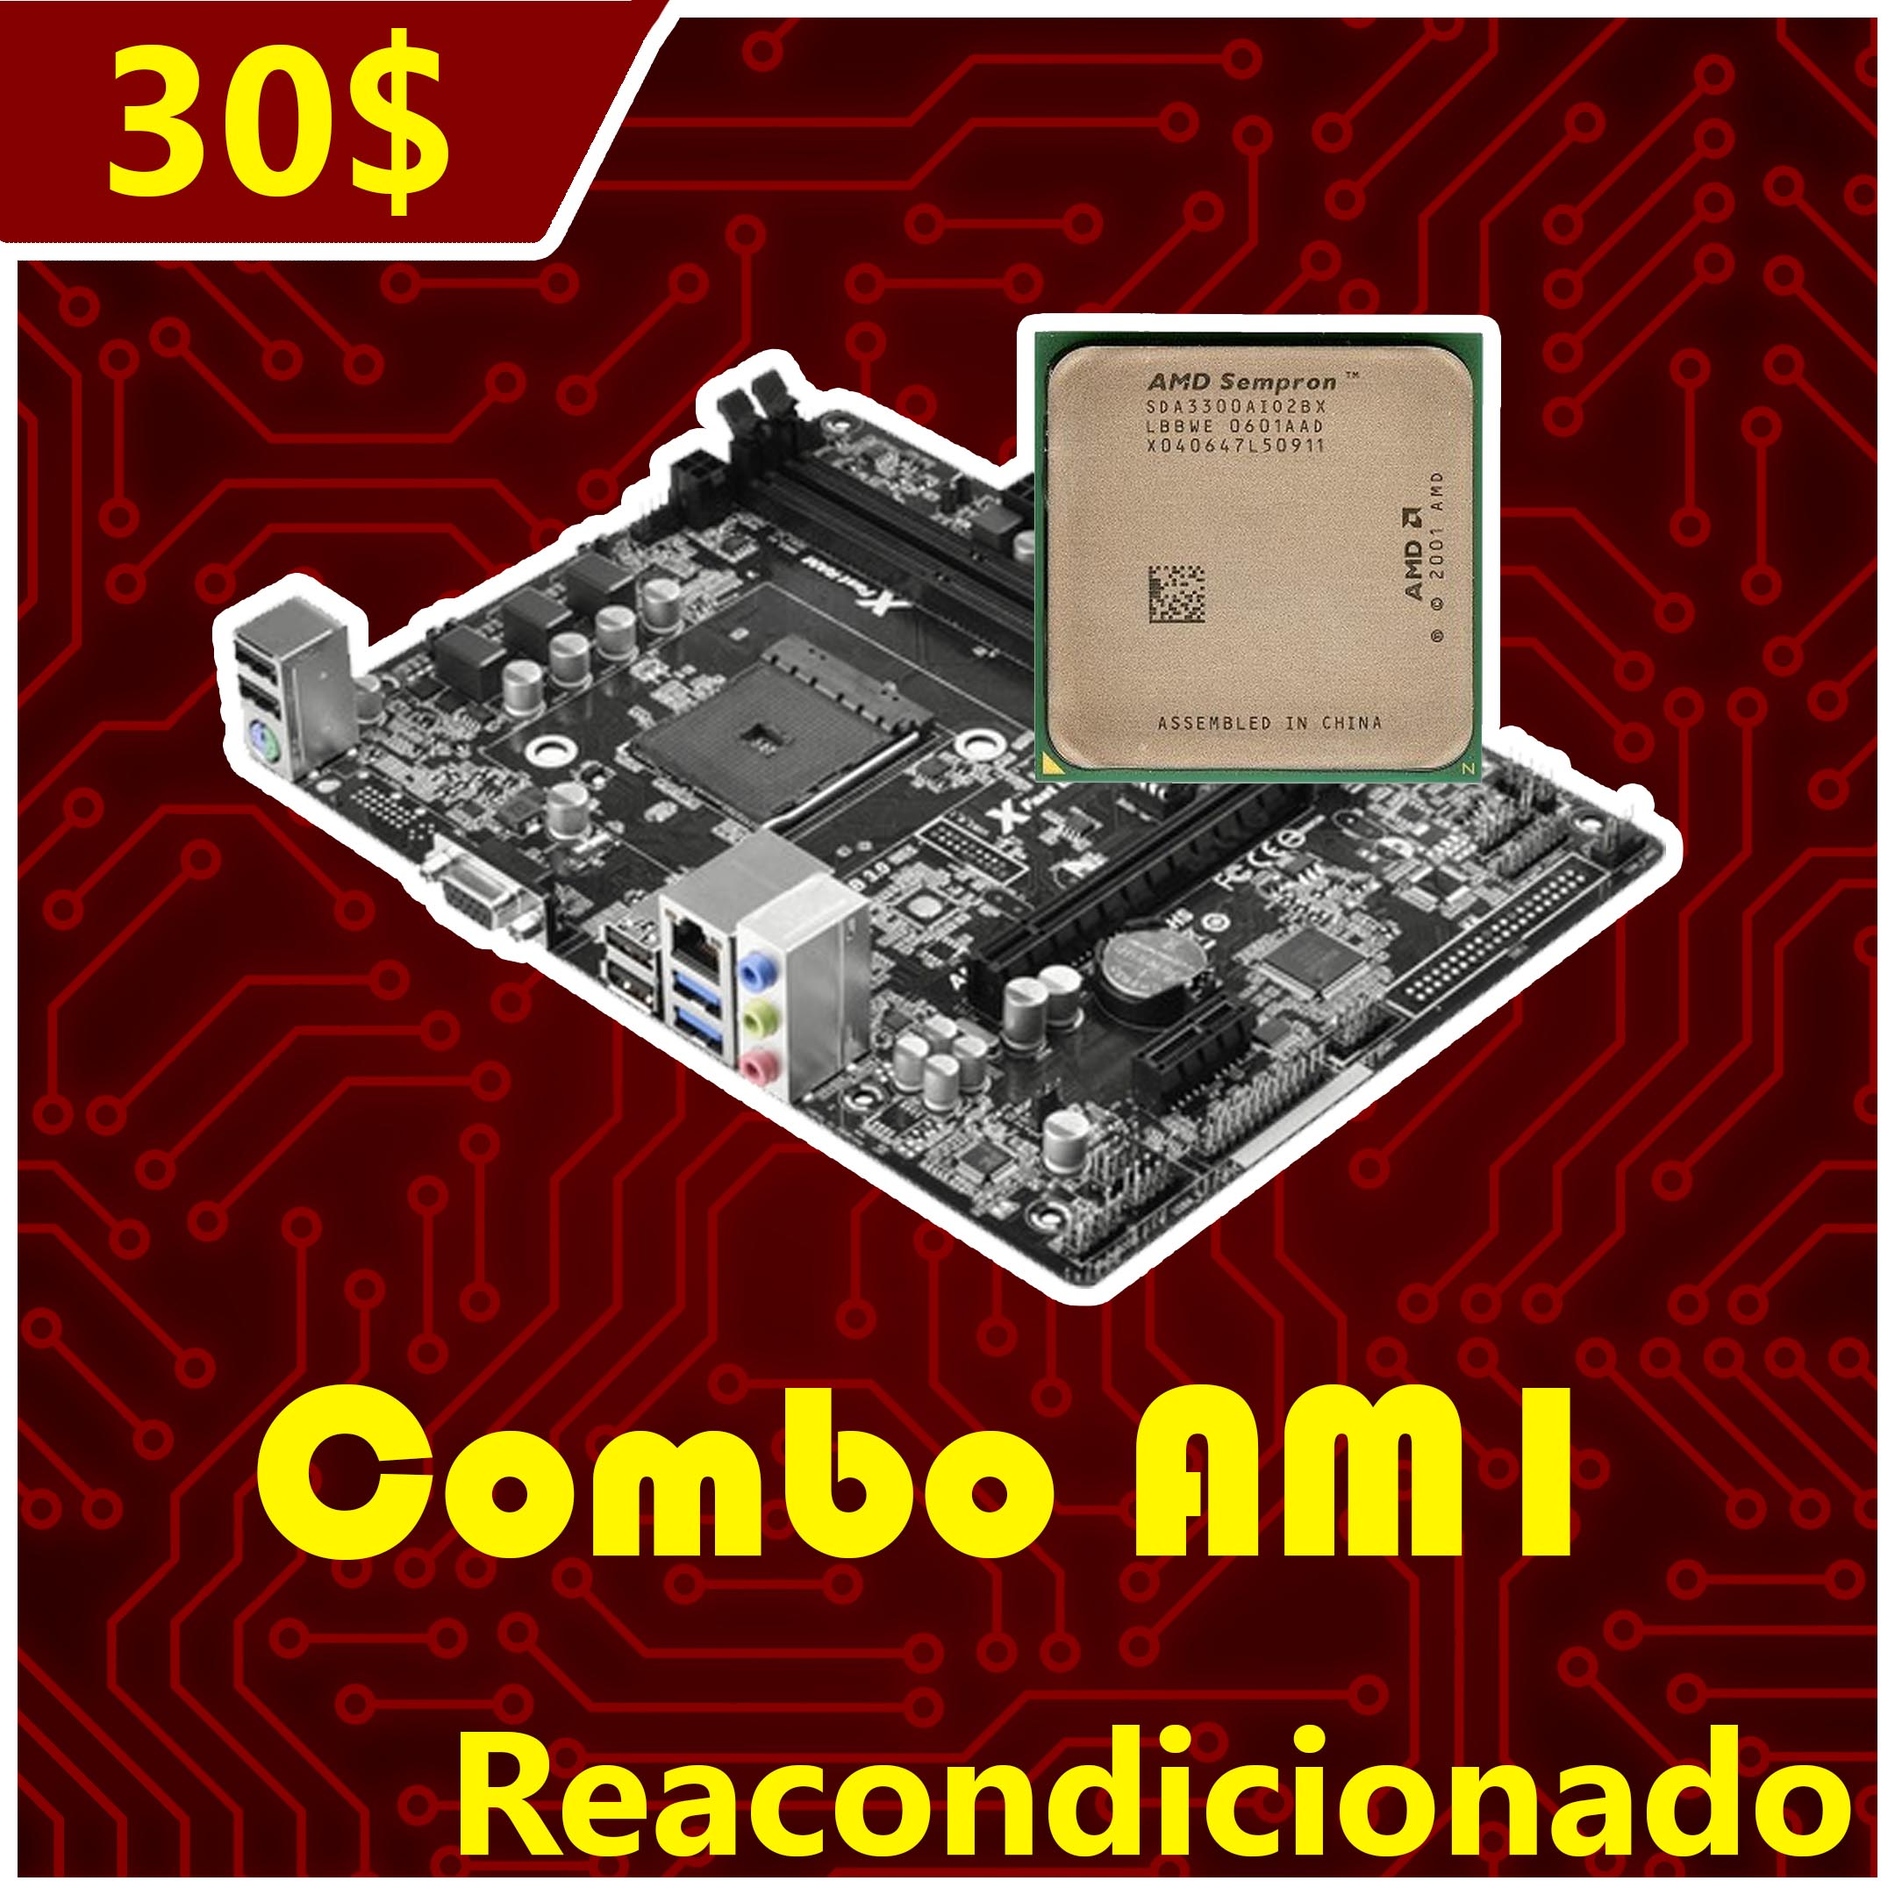
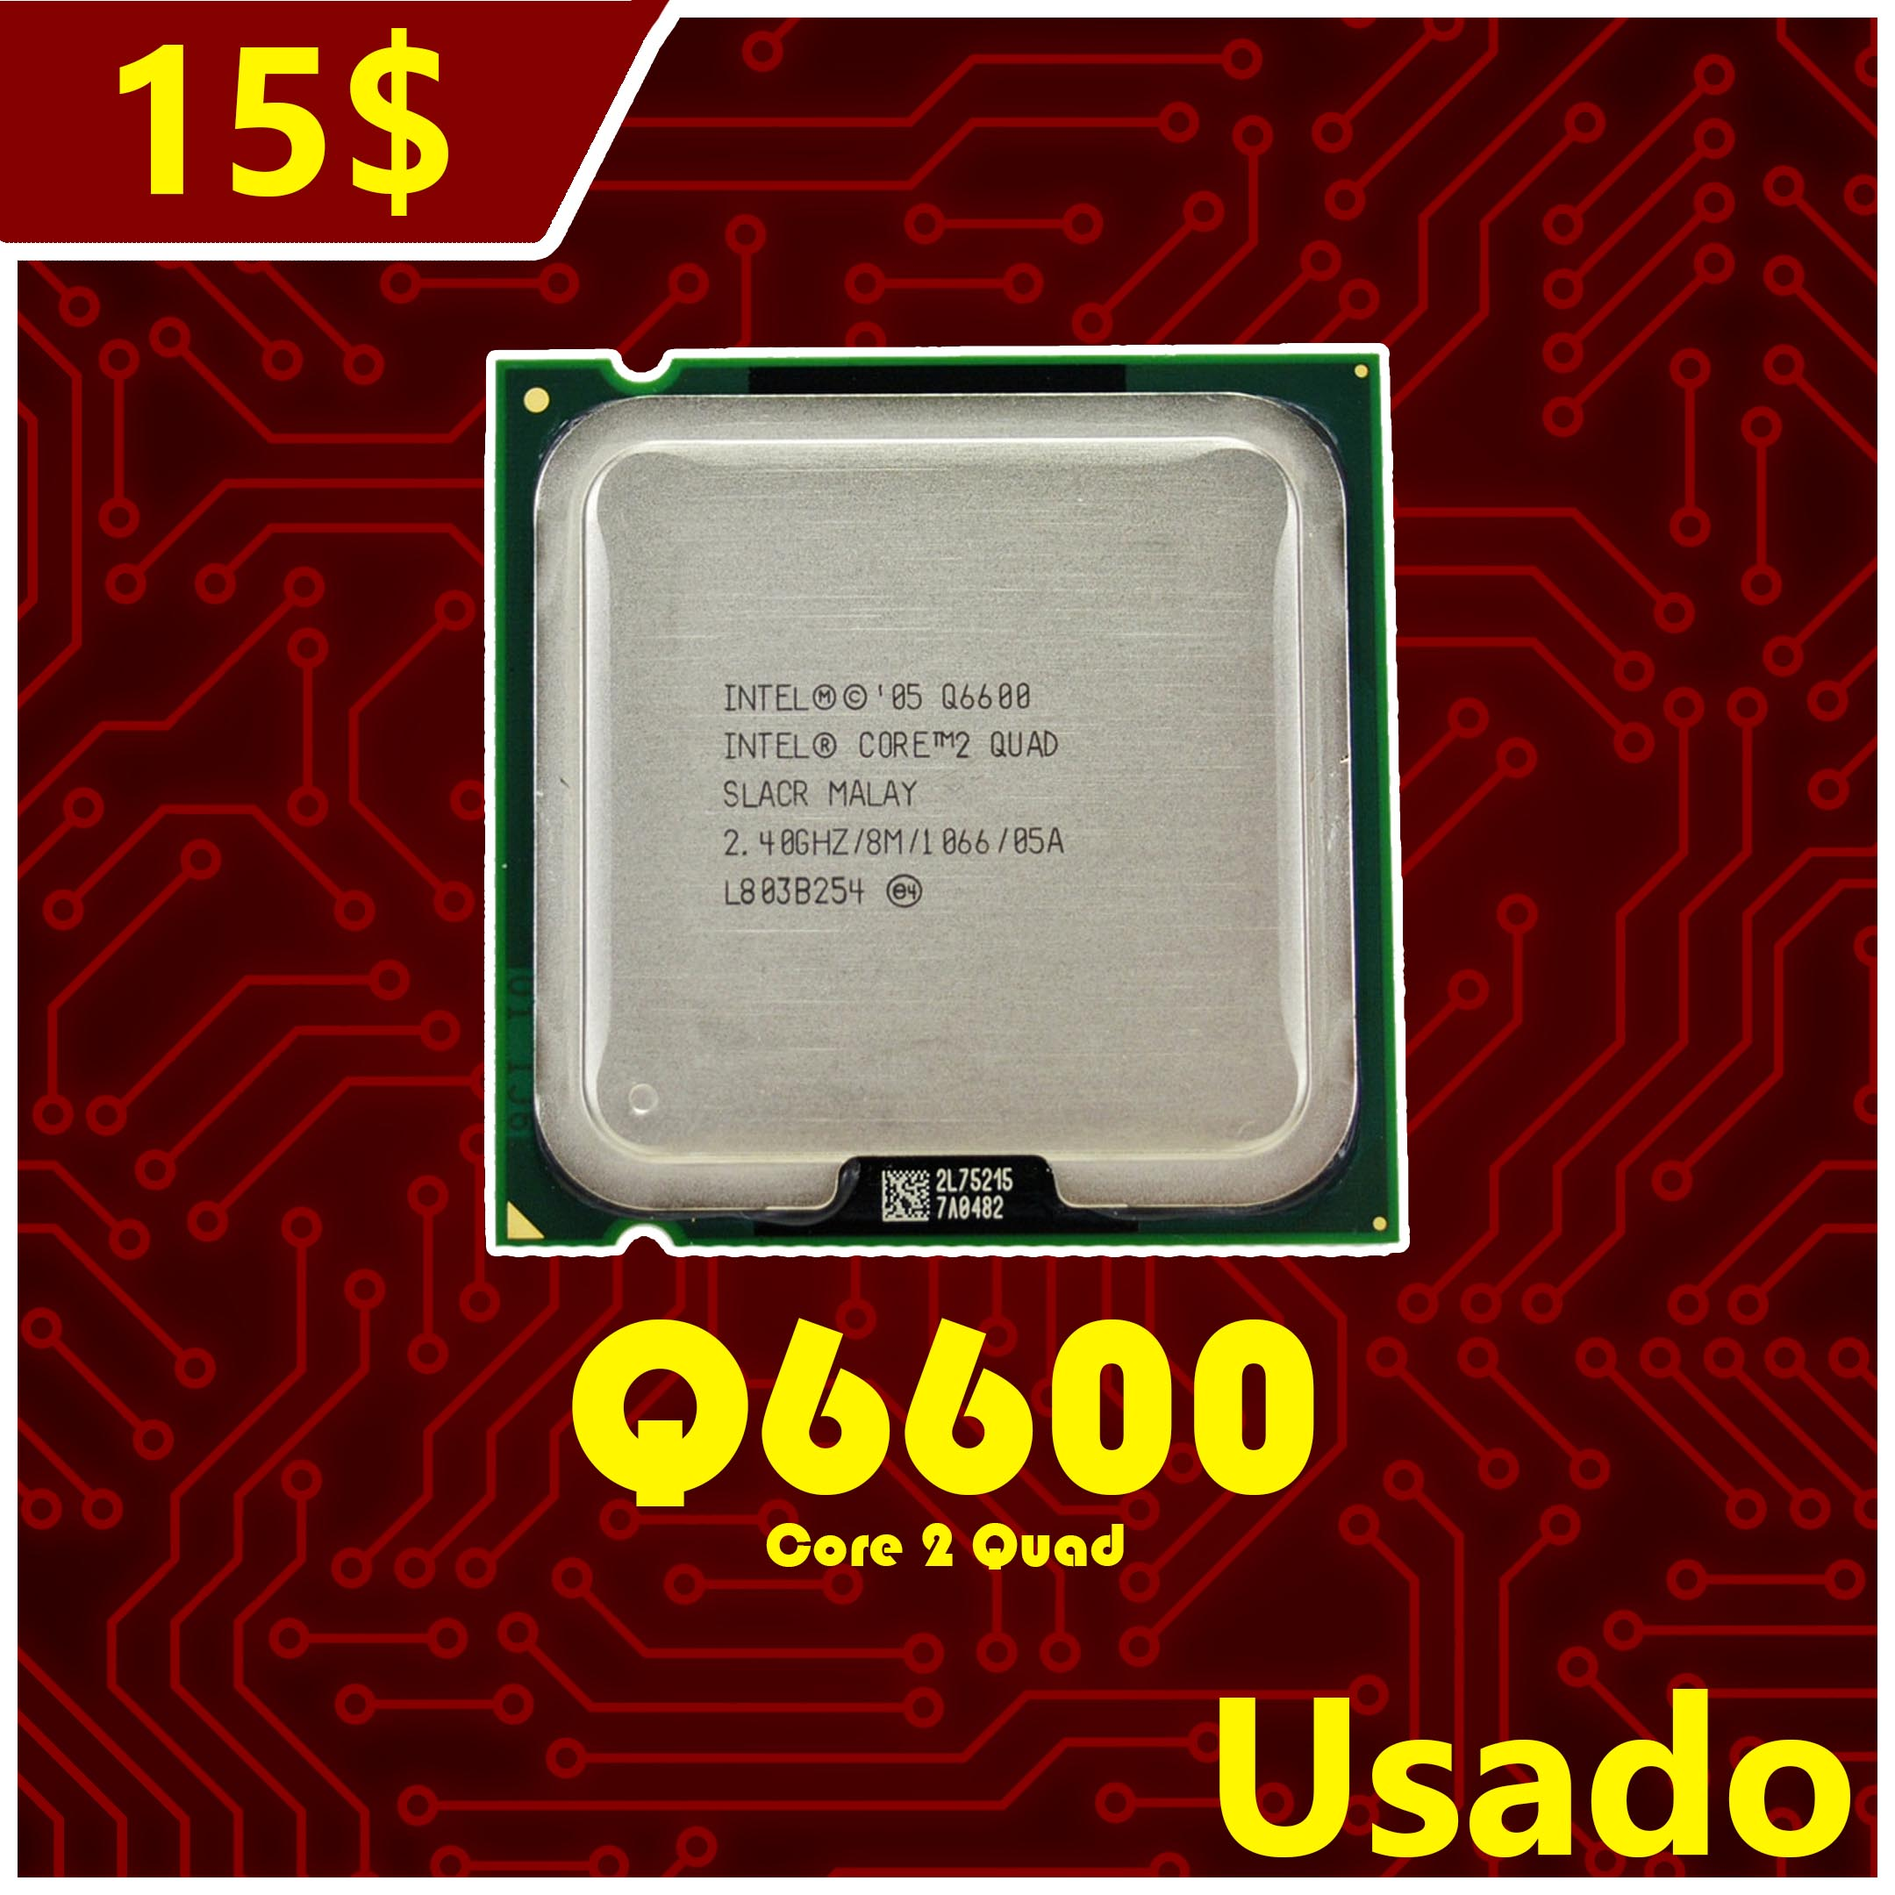
Add files via upload

diff --git a/index.html b/index.html
@@ -64,7 +64,7 @@
           <li><a href="#about">Sobre nosotros</a></li>
           <li><a href="tienda.html">Productos</a></li>
           <li><a href="servicios.html">Servicios</a></li>
-          <li><a href="#team">Equipo</a></li>
+          <li><a href="cursos.html">Cursos</a></li>
           <li><a href="#contact">Contacto</a></li>
         </ul>
       </nav>
@@ -136,15 +136,15 @@
           <p class="service-description">Información de nuestras reparaciones, métodos, procedimientos, garantías y más...</p>
         </div>
         <div class="col-md-4 service-item">
+          <div class="service-icon"><i class="fa fa-comments"></i></div>
+          <h4 class="service-title"><a href="cursos.html">Cursos</a></h4>
+          <p class="service-description">Información e inscripción a capacitaciones</p>
+        </div>
+        <div class="col-md-4 service-item">
           <div class="service-icon"><i class="fa fa-calculator"></i></div>
           <h4 class="service-title"><a>Armados de PCs</a></h4>
           <p class="service-description">Pronto...</p>
-        </div>
-        <div class="col-md-4 service-item">
-          <div class="service-icon"><i class="fa fa-comments"></i></div>
-          <h4 class="service-title"><a>Cursos</a></h4>
-          <p class="service-description">Pronto...</p>
-        </div>
+        </div>       
         <div class="col-md-4 service-item">
           <div class="service-icon"><i class="fa fa-microchip"></i></div>
           <h4 class="service-title"><a>Repuestos electrónicos</a></h4>
@@ -153,75 +153,7 @@
       </div>
     </div>
   </section>
-  <!--==========================
-  PRODUCTOS
-  ============================
-  <section id="portfolio">
-    <div class="container wow fadeInUp">
-      <div class="row">
-        <div class="col-md-12">
-          <h3 class="section-title">Productos</h3>
-          <div class="section-title-divider"></div>
-          <p class="section-description">Estos son nuestros productos disponibles:</p>
-        </div>
-      </div>
 
-      <div class="row">
-        <div class="col-md-3">
-          <a class="portfolio-item" style="background-image: url(img/portfolio-1.jpg);" href="https://wa.me/p/4942876472471732/584245022292">
-            <div class="details">
-              <h4>PC Gamer Low Cost (300$)</h4>
-              <span>Xeon E5450 @3.1GHz</span>
-              <span>Radeon HD 7470 1GB GDDR3</span>
-              <span>8GB RAM DDR3 1333MHz</span>
-              <span>120GB SSD + 500GB HDD</span>
-              <span>(Incluye Teclado, Ratón y Wifi)</span>
-            </div>
-          </a>
-        </div>
-        
-        <div class="col-md-3">
-          <a class="portfolio-item" style="background-image: url(img/portfolio-2.jpg);" href="https://wa.me/p/5246959668650180/584245022292">
-            <div class="details">
-              <h4>AMD RX 560 (250$)</h4>
-              <span>Marca XFX</span>
-              <span>4GB GDDR5</span>
-              <span>Alimentacion PCI 6 Pines</span>
-            </div>
-          </a>
-        </div>
-        
-        <div class="col-md-3">
-          <a class="portfolio-item" style="background-image: url(img/portfolio-3.jpg);" href="https://wa.me/p/5335270289903517/584245022292">
-            <div class="details">
-              <h4>Memoria RAM DDR3 4GB (20$)</h4>
-              <span>DDR3 DIMM</span>
-              <span>Capacidad de 4GB</span>
-              <span>1333MHz</span>
-            </div>
-          </a>
-        </div>
-
-        <div class="col-md-3">
-          <a class="portfolio-item" style="background-image: url(img/portfolio-4.jpg);" href="">
-            <div class="details">
-              <h4>Memoria RAM DDR3 4GB (22$)</h4>
-              <span>DDR3 SODIMM</span>
-              <span>Capacidad de 4GB</span>
-              <span>1333MHz</span>
-            </div>
-          </a>
-        </div>
-      -->
-  <!--==========================
-  Testimonials Section
-  ============================-->
-  
-  
-  
-  <!--==========================
-  Team Section
-  ============================-->
   <section id="team">
     <div class="container wow fadeInUp">
       <div class="row">
@@ -340,11 +272,7 @@
       </div>
     </div>
   </footer>
-  <!-- #footer -->
-
   <a href="#" class="back-to-top"><i class="fa fa-chevron-up"></i></a>
-
-  <!-- Required JavaScript Libraries -->
   <script src="lib/jquery/jquery.min.js"></script>
   <script src="lib/bootstrap/js/bootstrap.min.js"></script>
   <script src="lib/superfish/hoverIntent.js"></script>
@@ -353,13 +281,7 @@
   <script src="lib/wow/wow.min.js"></script>
   <script src="lib/stickyjs/sticky.js"></script>
   <script src="lib/easing/easing.js"></script>
-
-  <!-- Template Specisifc Custom Javascript File -->
   <script src="js/custom.js"></script>
-
   <script src="contactform/contactform.js"></script>
-
-
 </body>
-
 </html>

diff --git a/cursos.html b/cursos.html
@@ -1,0 +1,98 @@
+<!DOCTYPE html>
+<html lang="es">
+
+<head>
+  <meta charset="utf-8">
+  <title>MP: Cursos</title>
+  <link rel="shortcut icon" href="img/logoicon.png">
+  <meta content="width=device-width, initial-scale=1.0" name="viewport">
+  <meta content="" name="keywords">
+  <meta content="" name="description">
+
+  <link href="https://fonts.googleapis.com/css?family=Open+Sans:300,300i,400,400i,700,700i|Raleway:300,400,500,700,800" rel="stylesheet">
+  <link href="lib/bootstrap/css/bootstrap.min.css" rel="stylesheet">
+  <link href="lib/font-awesome/css/font-awesome.min.css" rel="stylesheet">
+  <link href="lib/animate-css/animate.min.css" rel="stylesheet">
+  <link href="css/style.css" rel="stylesheet">
+
+</head>
+
+<body>
+  <div id="preloader"></div>
+  <section id="cursos">
+    <div class="container wow fadeInUp">
+      <div class="row">
+        <div class="col-md-12">
+          <h3 class="section-title">Cursos</h3>
+          <div class="section-title-divider"></div>
+          <p class="section-description">Aqui encontrarás informacion sobre las capacitaciones en forma de cursos que tenemos disponibles:
+          </p>
+        </div>
+      </div>
+    </div>
+
+    <div class="container about-container wow fadeInUp">
+      <div class="row">
+        <div class="col-md-6 col-md-push-6 about-content">
+          <h2 class="about-title">Curso: Electrónica de Placás Lógicas (Nivel Medio-Avanzado)</h2>
+          <p class="about-text">
+            El curso consta de 4 módulos en total, a cada uno de estos se le dedican 2 clases, una teórica con una presentación explicada vía Discord (con tiempo a preguntas), y una práctica con participación conjunta y activa vía Discord. Los módulos son los siguientes:
+          </p>
+          <p class="about-text">
+            Modulo #1: Fundamentos de la Electrónica = Cómo funciona la electricidad en un circuito, que son las unidades de medida, que es un corto-circuito, componentes básicos de un circuito, etc.
+          </p>
+          <p class="about-text">
+           Modulo #2: Funcionamiento de un Computador a nivel electrónico = Partes de una placa madre y sus funciones, diagnostico de sectores, reparación de socket, RAMs, VRM (PWM, MOSFETs, etc), PCH, SuperIO o KBC, mediciones generales y BIOS.
+          </p>
+          <p class="about-text">
+            Modulo #3: Flujo y mediciones de un diagnóstico = Diagrama de flujo de una revisión, señales y voltajes importantes, esquemáticos y boardviews (como obtenerlos y leerlos), buscar continuidad e ingeniería inversa.
+          <p class="about-text">
+            Modulo #4: Procedimientos post-diagnóstico = Soldadura, valores de componentes y compatibilidad de los mismos, Reflow y Reballing, señales emuladas, uso avanzado de cautin y estación de calor, entre otros.
+          </p>
+        </div>
+
+      </div>
+      <div class="row">
+        <div class="col-md-9">
+          <div class="actions">
+            <a href="https://discord.gg/FXHpFkU2KD" class="btn-services">Inscríbete</a>
+          </div>
+        </div>
+      </div>
+    </div>
+
+  </section>
+
+  <footer id="footer">
+    <div class="container">
+      <div class="row">
+        <div class="col-md-12">
+          <div class="copyright">
+            &copy; Copyright <strong>MP Tech</strong>. All Rights Reserved
+          </div>
+          <div class="credits">
+          </div>
+        </div>
+      </div>
+    </div>
+  </footer>
+
+  <a href="#" class="back-to-top"><i class="fa fa-chevron-up"></i></a>
+
+  <script src="lib/jquery/jquery.min.js"></script>
+  <script src="lib/bootstrap/js/bootstrap.min.js"></script>
+  <script src="lib/superfish/hoverIntent.js"></script>
+  <script src="lib/superfish/superfish.min.js"></script>
+  <script src="lib/morphext/morphext.min.js"></script>
+  <script src="lib/wow/wow.min.js"></script>
+  <script src="lib/stickyjs/sticky.js"></script>
+  <script src="lib/easing/easing.js"></script>
+
+  <script src="js/custom.js"></script>
+
+  <script src="contactform/contactform.js"></script>
+
+
+</body>
+
+</html>

diff --git a/tienda.html b/tienda.html
@@ -40,16 +40,6 @@
       </div>
 
       <div class="row">
-        <div class="col-md-3">
-          <a class="portfolio-item" style="background-image: url(img/portfolio-2.2.jpg);" href="https://wa.me/p/4928438603872069/584245022292">
-            <div class="details">
-              <h4>Combo AM1 (30$)</h4>
-              <span>Socket AM1b</span>
-              <span>Placa Asrock AM1B-M</span>
-              <span>Procesador Sempron</span>
-              <span>Soporta Memorias DDR3</span>
-            </div>
-          </a>
         </div>
 
         
@@ -70,6 +60,18 @@
         <div class="col-md-12">
           <p class="section-description">Procesadores:</p>
           </div>
+        </div>
+
+        <div class="col-md-3">
+          <a class="portfolio-item" style="background-image: url(img/portfolio-2.2.jpg);" href="https://www.facebook.com/marketplace/item/5830039947012873/">
+            <div class="details">
+              <h4>Core 2 Quad Q6600 (15$)</h4>
+              <span>Socket LGA775</span>
+              <span>2.4GHz</span>
+              <span>Overcloackeable a 3GHz con MOD</span>
+              <span>Quad-core</span>
+            </div>
+          </a>
         </div>
 
         <div class="col-md-3">
@@ -116,20 +118,27 @@
         <div class="container wow fadeInUp">
         <div class="row">
         <div class="col-md-12">
-          <p class="section-description">Tarjetas Gráficas:</p>
+          <p class="section-description">Fuentes de Poder:</p>
           </div>
         </div>
 
         <div class="col-md-3">
-          <a class="portfolio-item" style="background-image: url(img/portfolio-5.jpg);" href="https://wa.me/p/4962154360550290/584245022292">
+          <a class="portfolio-item" style="background-image: url(img/portfolio-4.1.jpg);" href="https://www.facebook.com/marketplace/item/422874309446784/">
             <div class="details">
-              <h4>R9 380 (150$)</h4>
-              <span>Marca XFX</span>
-              <span>4GB GDDR5</span>
-              <span>Equivalente a GTX 1050 Ti</span>
-              <span>Reacondicionada</span>
+              <h4>Fuente de Poder 500W (25$)</h4>
+              <span>Marca CoolerMaster</span>
+              <span>Excelente calidad</span>
+              <span>CPU 4+4 Pines</span>
+              <span>PCIe 6 Pines</span>
             </div>
           </a>
+        </div>
+
+        <div class="container wow fadeInUp">
+        <div class="row">
+        <div class="col-md-12">
+          <p class="section-description">Tarjetas Gráficas:</p>
+          </div>
         </div>
 
         <div class="col-md-3">
@@ -191,7 +200,7 @@
             </div>
           </a>
         </div>
-
+<!--
       <div class="container wow fadeInUp">
       <div class="row">
         <div class="col-md-12">
@@ -212,7 +221,9 @@
           </a>
         </div>
       </div>
+      -->
     </div>
+
   </section>
   <!--==========================
   Footer

diff --git a/css/style.css b/css/style.css
@@ -552,6 +552,58 @@ body.mobile-nav-active #mobile-nav-toggle {
 
 /* Subscribe Section
 --------------------------------*/
+
+#cursos {
+  background: #000;
+  padding: 80px 0;
+}
+
+#cursos .about-container {
+  background: url(../img/curso.jpg) left top no-repeat;
+}
+
+
+#cursos .about-content {
+  background: #000;
+}
+
+#cursos .about-title {
+  color: #999999;
+  font-weight: 700;
+  font-size: 28px;
+}
+
+#cursos .about-text {
+  line-height: 26px;
+}
+
+#cursos .about-text:last-child {
+  margin-bottom: 0;
+}
+
+#cursos .btn-services {
+  border: 2px solid #fff;
+  color: #fff;
+}
+
+#cursos .btn-services:hover {
+  background: #881111;
+  border: 2px solid #881111;
+}
+
+#cursos .actions a {
+  font-family: "Raleway", sans-serif;
+  text-transform: uppercase;
+  font-weight: 500;
+  font-size: 16px;
+  letter-spacing: 1px;
+  display: inline-block;
+  padding: 8px 20px;
+  border-radius: 2px;
+  transition: 0.5s;
+  margin: 10px;
+}
+
 #subscribe {
   background: linear-gradient(rgba(0, 0, 0, 0.6), rgba(0, 0, 0, 0.6)), url(../img/subscribe-bg.jpg) fixed center center;
   background-size: cover;
